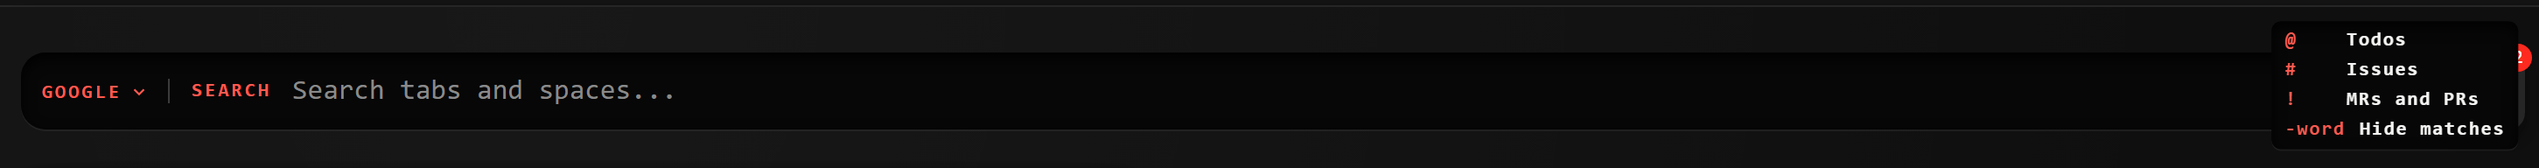
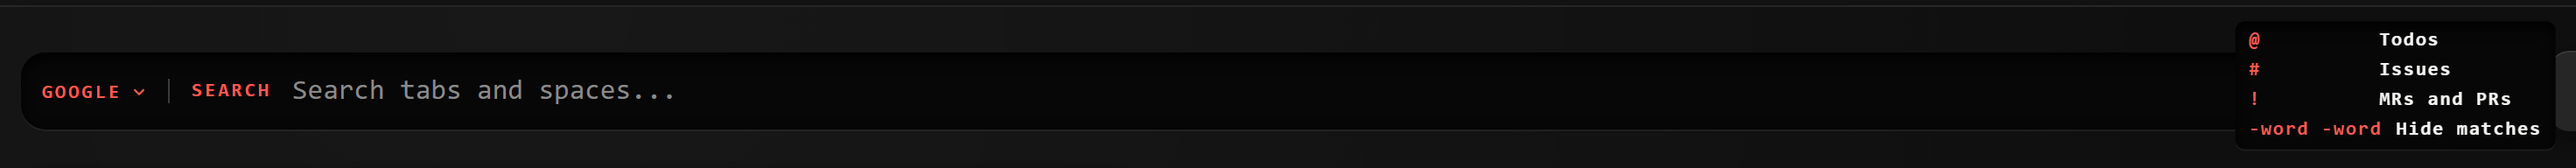
D(release): chained -word, caret shortcut, recapture help shots.
zen-tab-search/
└─ docs/
   ├─ releases/v5.4.0.md
   │  14-40:  chain -word; whole-word and unfinished minus
   │  127-132: Left/Right move the caret; Ctrl+Up/Down skip five
   │
   ├─ gifs/query-help.gif
   │  recapture with -word -word in the cheat-sheet
   │
   └─ screenshots/
      search-query-help.png and dark/search-query-help.png
      recapture with the chained exclude key

diff --git a/docs/releases/v5.4.0.md b/docs/releases/v5.4.0.md
@@ -11,8 +11,8 @@
 
 ## Highlights
 
-- **Prefix cheat-sheet.** Rest on `?` next to the search field. `@`, `#`, `!` and `-word` print out.
-- **Hide matches with `-word`.** `auth -gitlab` keeps auth and drops GitLab. A leading `-wip` hides wip on its own.
+- **Prefix cheat-sheet.** Rest on `?` next to the search field. `@`, `#`, `!` and `-word -word` print out.
+- **Hide matches with `-word`.** `auth -gitlab` keeps auth and drops GitLab. Chain them: `-draft -wip`.
 - **Mark done and close.** Clear… now has two groups: mark done, or mark done and close the tabs.
 - **Enhanced and Pro retuned.** Enhanced keeps spaces and essentials off, and turns folder grouping and the context menu on. Pro keeps todos without the MCP bridge or the always-on status bar.
 
@@ -22,19 +22,21 @@
 
 ## Prefix cheat-sheet
 
-The search field has a `?` on the right. Rest on it and a legend prints the prefixes that jump columns and the `-word` exclude.
+The search field has a `?` on the right. Rest on it and a legend prints the prefixes that jump columns and the chained `-word` exclude.
 
-`@` is omitted when todos are off. `#` and `!` are omitted when forge detection is off. `-word` is always there.
+`@` is omitted when todos are off. `#` and `!` are omitted when forge detection is off. `-word -word` is always there.
 
 ![The search field with the prefix legend printed](https://raw.githubusercontent.com/SanderCokart/Zen-Deck/v5.4.0/docs/screenshots/dark/search-query-help.png)
 
-*`?` next to Search. `@` `#` `!` and `-word`.*
+*`?` next to Search. `@` `#` `!` and `-word -word`.*
 
 ## Hide matches with `-word`
 
-A token that starts with `-` is an exclude, not an include. `auth -gitlab` keeps tabs that match auth and drops any whose title, label, folder, space or address contains gitlab.
+A token that starts with `-` is an exclude, not an include. `auth -gitlab` keeps tabs that match auth and drops any whose title, label, folder, space or host has that word.
 
-A leading `-gitlab` hides those matches with no include term. A lone `-` is still a minus. Hyphenated titles typed without a space (`foo-bar`) stay includes.
+`-draft` hides a Draft: merge request. It does not hide a tab because `draft` appears inside another word, in the GitLab URL path, or only in leftover page-title chrome after you renamed the tab.
+
+A leading `-gitlab` hides those matches with no include term. Chain them: `-draft -wip`. A lone `-` does nothing until you type a word. Hyphenated titles typed without a space (`foo-bar`) stay includes.
 
 The exclude also applies to the issue navigator.
 
@@ -85,7 +87,7 @@ If you already picked Enhanced or Pro in 5.3, your saved checkboxes stay until y
 ## Features
 
 <details>
-<summary><strong>Prefix cheat-sheet.</strong> A <code>?</code> key next to search prints <code>@</code>, <code>#</code>, <code>!</code> and <code>-word</code>.</summary>
+<summary><strong>Prefix cheat-sheet.</strong> A <code>?</code> key next to search prints <code>@</code>, <code>#</code>, <code>!</code> and <code>-word -word</code>.</summary>
 
 The list follows the complexity flags: no todos means no <code>@</code>. No forge detection means no <code>#</code> or <code>!</code>.
 </details>
@@ -93,7 +95,7 @@ The list follows the complexity flags: no todos means no <code>@</code>. No forg
 <details>
 <summary><strong>Hide matches with <code>-word</code>.</strong> A token that starts with a minus drops matching tabs, issues and requests.</summary>
 
-<code>auth -gitlab</code> keeps auth. A leading <code>-wip</code> hides wip with no include. A lone <code>-</code> is not an exclude. <code>foo-bar</code> is still one word.
+<code>auth -gitlab</code> keeps auth. Chain them: <code>-draft -wip</code>. The minus matches a whole word on the visible name or host, not a substring and not the GitLab path. A lone <code>-</code> does nothing until you type a word. <code>foo-bar</code> is still one word.
 </details>
 
 <details>
@@ -121,6 +123,12 @@ They are hidden, not greyed out. After <strong>Mark as todo</strong>, the contex
 </details>
 
 ## Bug fixes
+
+<details>
+<summary><strong>Caret in the search field.</strong> Left and Right move the cursor. Skip five rows with Ctrl+Up and Ctrl+Down.</summary>
+
+Left and Right used to jump five tabs, so the caret in the query could not move.
+</details>
 
 <details>
 <summary><strong>Disabled context menu items.</strong> Actions the Complexity flags turned off no longer appear in the context menu.</summary>
